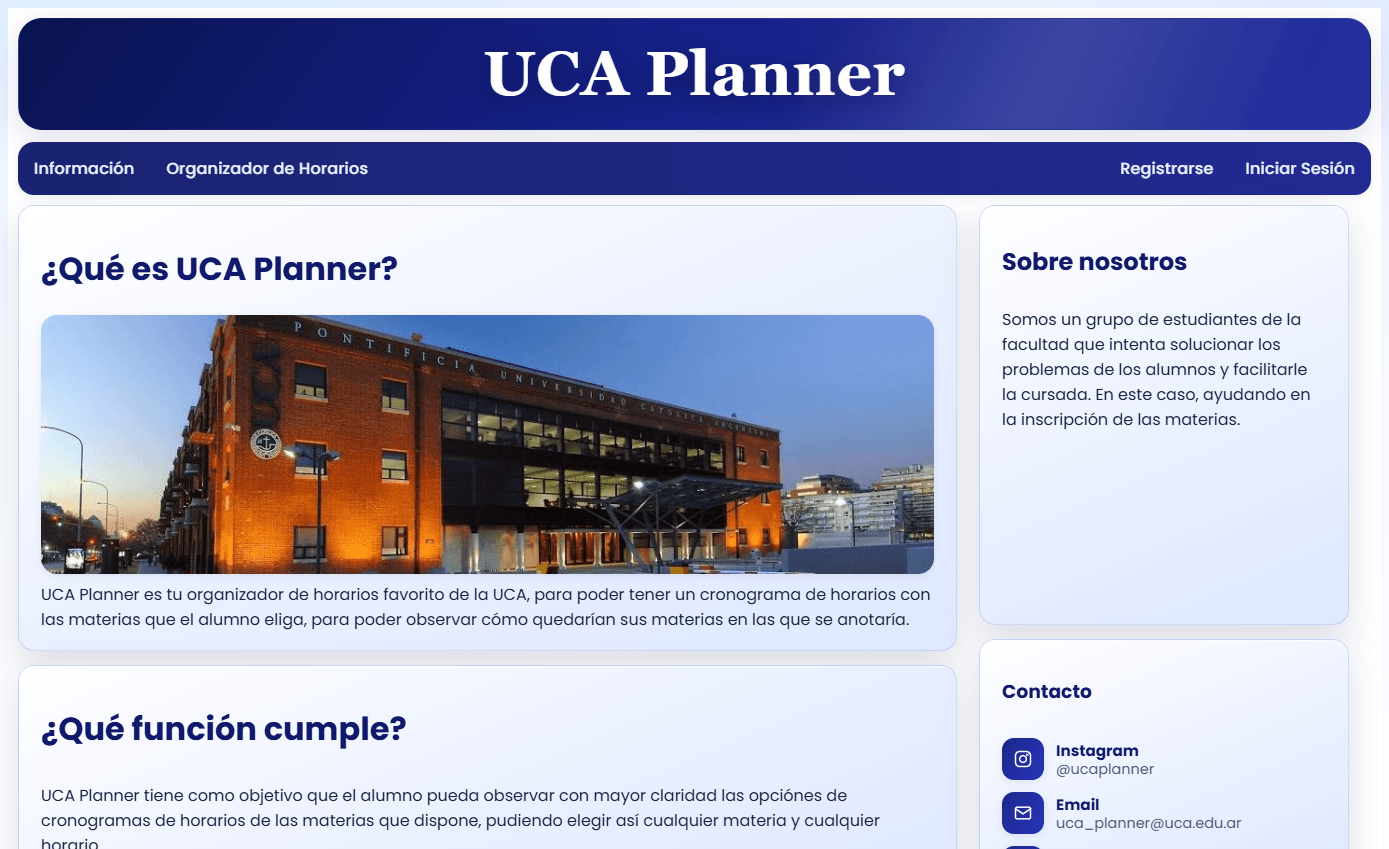
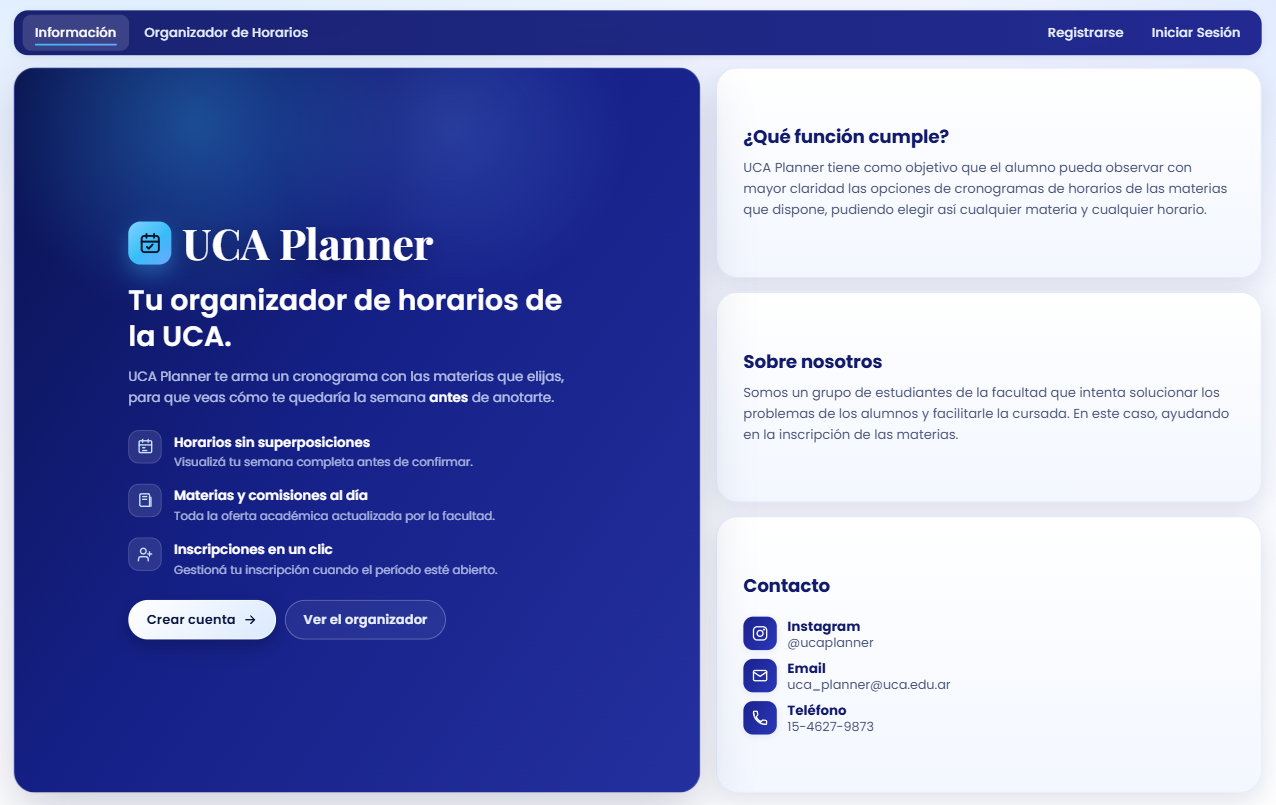
.

diff --git a/src/data/portfolio.js b/src/data/portfolio.js
@@ -8,6 +8,10 @@ export const profile = {
     es: 'Construyo soluciones web de punta a punta: interfaces, APIs y automatizaciones.',
     en: 'I build end-to-end web solutions: interfaces, APIs and automations.',
   },
+  phrase: {
+    es: 'En continuo desarrollo',
+    en: 'Constantly evolving'
+  },
   availability: {
     es: 'Abierto a oportunidades part time y pasantías',
     en: 'Open to part time roles and internships',
@@ -17,7 +21,7 @@ export const profile = {
     en: 'Argentina Catholic University (UCA)',
   },
   location: {
-    es: 'Ciudad Autónoma de Buenos Aires, Argentina',
+    es: 'Buenos Aires, Argentina',
     en: 'Buenos Aires, Argentina',
   },
   email: 'eduescuti99@gmail.com',

diff --git a/src/components/Hero.jsx b/src/components/Hero.jsx
@@ -84,7 +84,7 @@ export default function Hero() {
           </m.p>
 
           <m.p variants={item} className="max-w-md font-mono text-sm text-slate-500">
-            {t(profile.availability)}
+            {t(profile.phrase)}
           </m.p>
 
           <m.p variants={item} className="mb-8 max-w-md font-mono text-sm text-slate-500">
